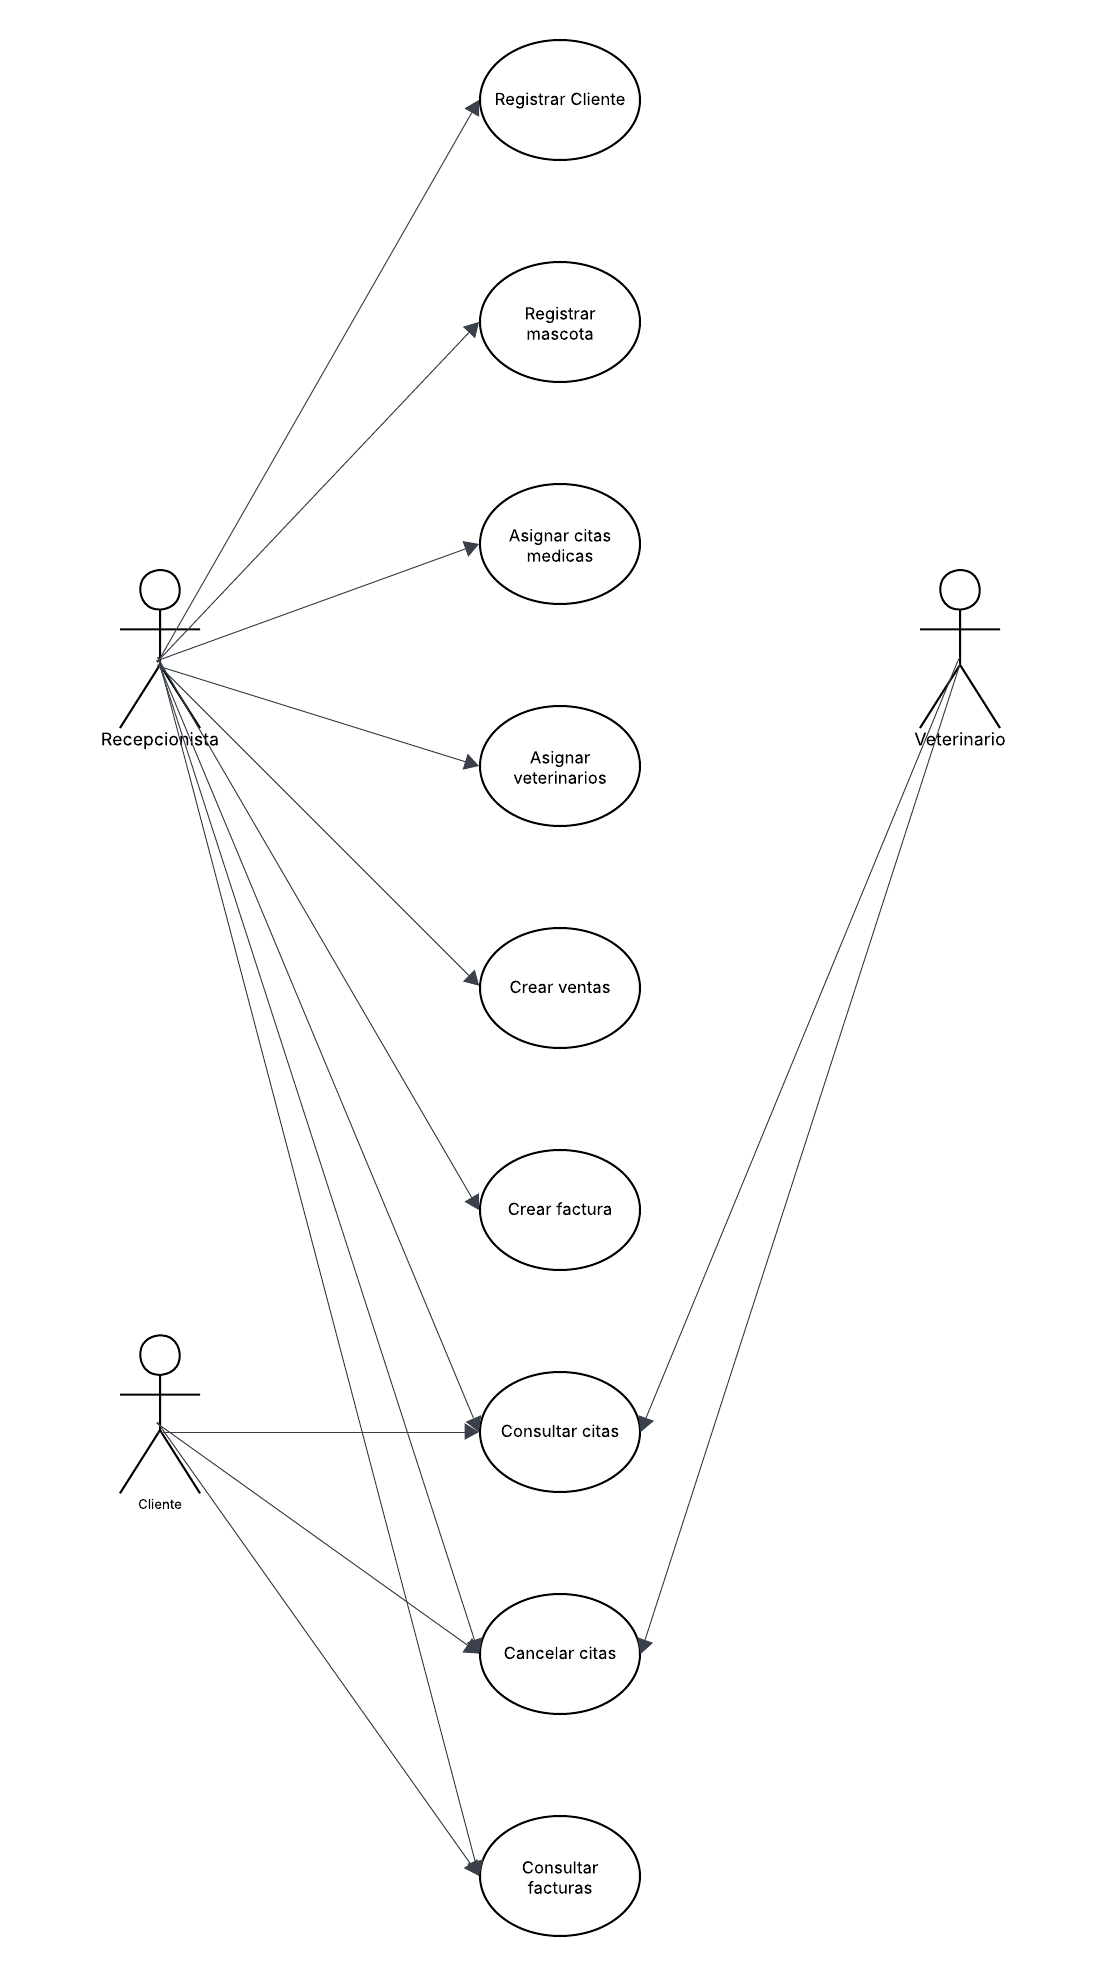
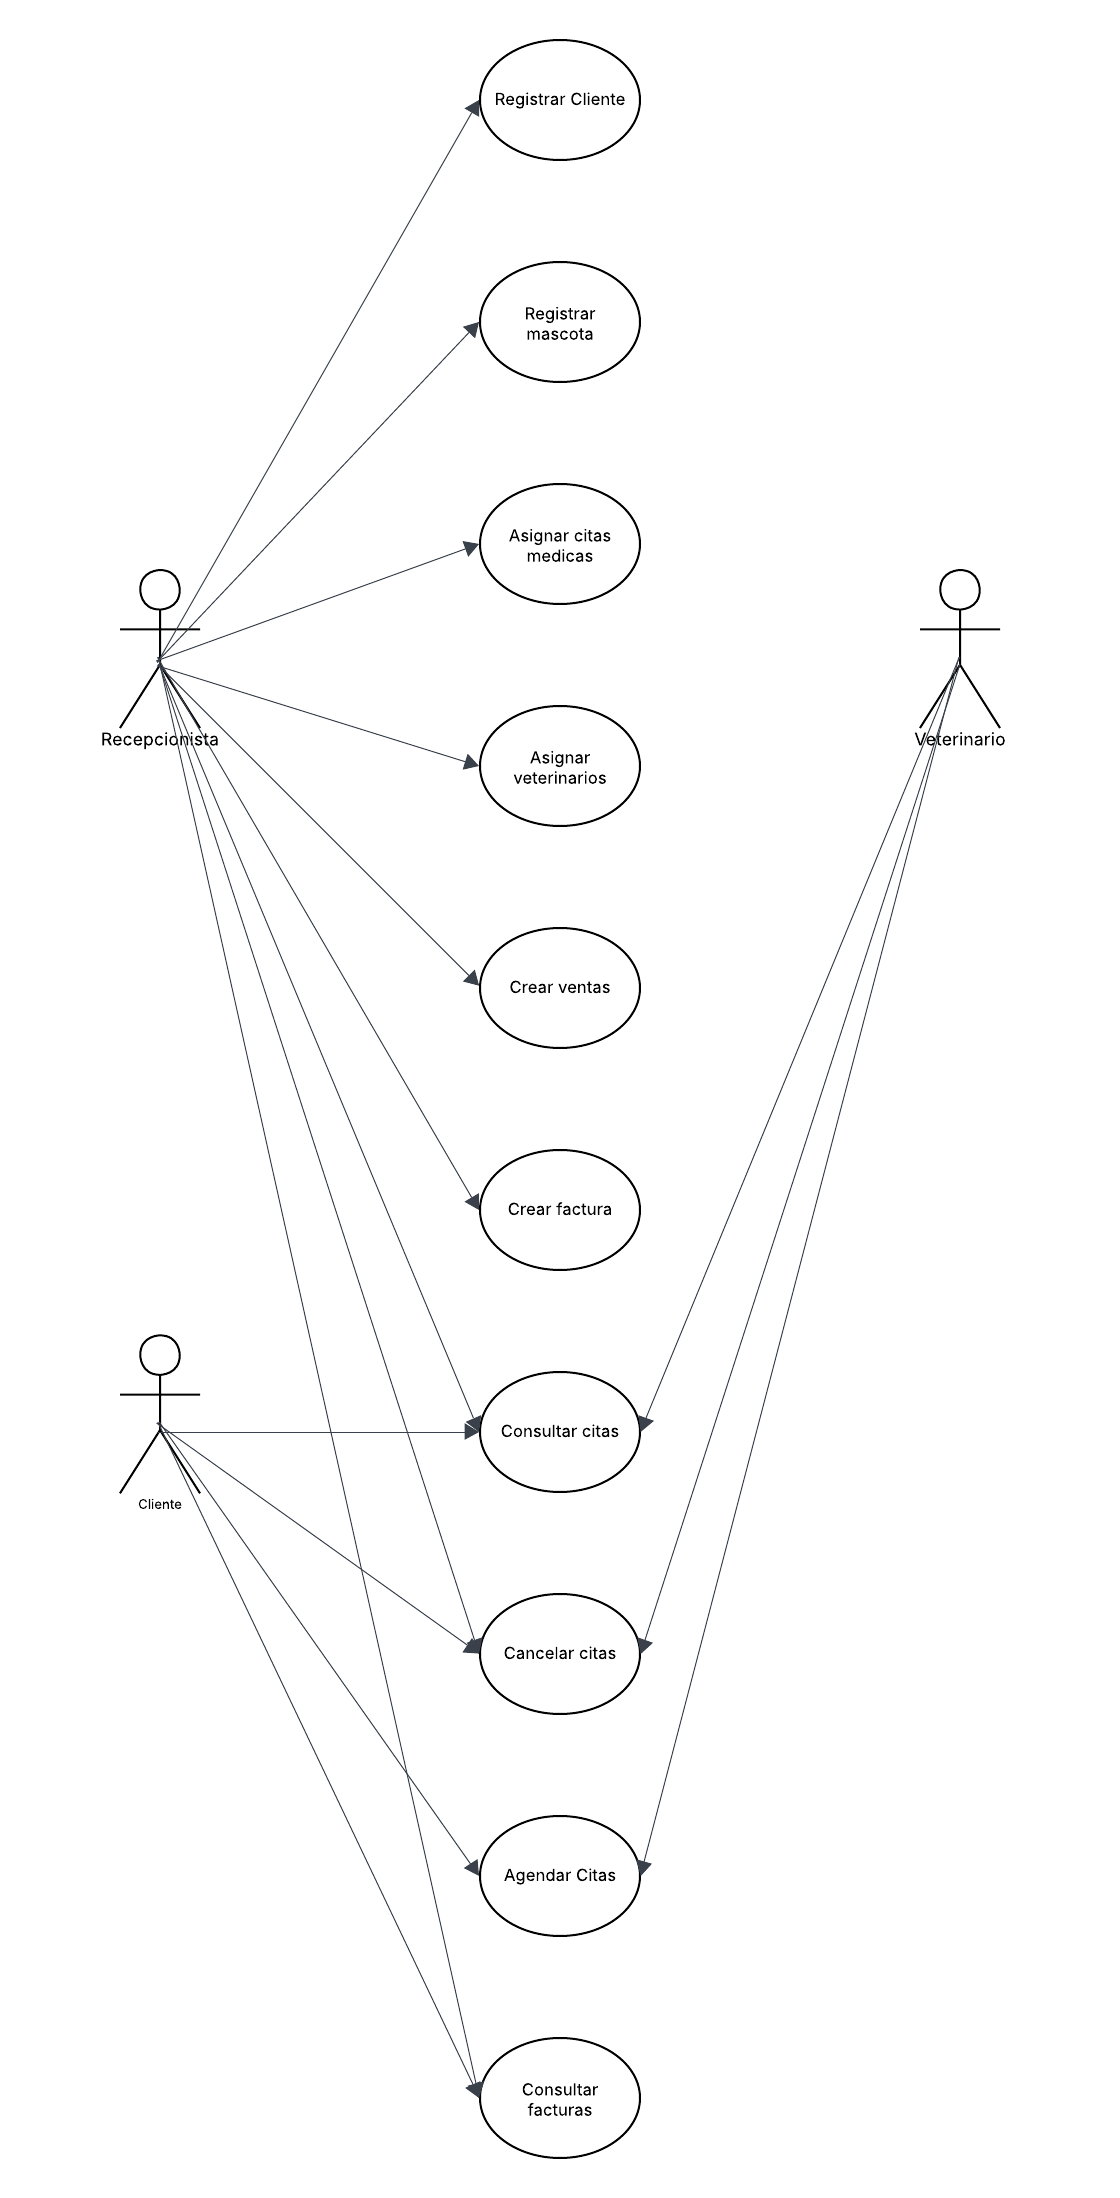
docs (README): Actualizacion del README

diff --git a/README.md b/README.md
@@ -130,6 +130,7 @@ pues tal como aparece en el diagrama se presentan los usuarios del sistema
 y que hacen con el.
 
 ![Petcare360_Diagrama de Casos.png](docs/images/Petcare360_Diagrama%20de%20Casos.png)
+
 👩💼 `Recepcionista`
 
 - Registrar nuevos clientes en el sistema.
@@ -166,10 +167,40 @@ y que hacen con el.
 
 - Revisar sus facturas y estados de cuenta.
 
-
-![Petcare360_Diagrama de Clases.png](docs%2Fimages%2FPetcare360_Diagrama%20de%20Clases.png)
+![Petcare360_Diagrama de Clases (3).png](docs/images/Petcare360_Diagrama%20de%20Clases%20%283%29.png)
 
 En justificacion se ahonda un poco sobre el diagrama de clases.
+
+## 🐢 Diagramas de Secuencia 
+
+- scheduleAppointment
+![img.png](docs/images/img.png)
+
+- getAppointment
+![img_1.png](docs/images/img_1.png)
+
+- cancelAppointment
+![img_2.png](docs/images/img_2.png)
+
+- getAppointmentsByVeterinarian
+![img_3.png](docs/images/img_3.png)
+
+- getAppointmentsByPet
+![img_4.png](docs/images/img_4.png)
+
+
+## Backlog
+
+`LINK:`
+https://nikolas.atlassian.net/jira/software/projects/PC360/boards/34/backlog?atlOrigin=eyJpIjoiNzM3MTc0MGE2ZjgzNGQ4MmEyZmUwNGRkOWFhYmNkMjkiLCJwIjoiaiJ9
+
+![img.png](docs/images/JIRA/img.png)
+
+![img_1.png](docs/images/JIRA/img_1.png)
+![img_2.png](docs/images/JIRA/img_2.png)
+![img_3.png](docs/images/JIRA/img_3.png)
+![img_4.png](docs/images/JIRA/img_4.png)
+![img_5.png](docs/images/JIRA/img_5.png)
 
 ## 🧩 Patrones 
 
